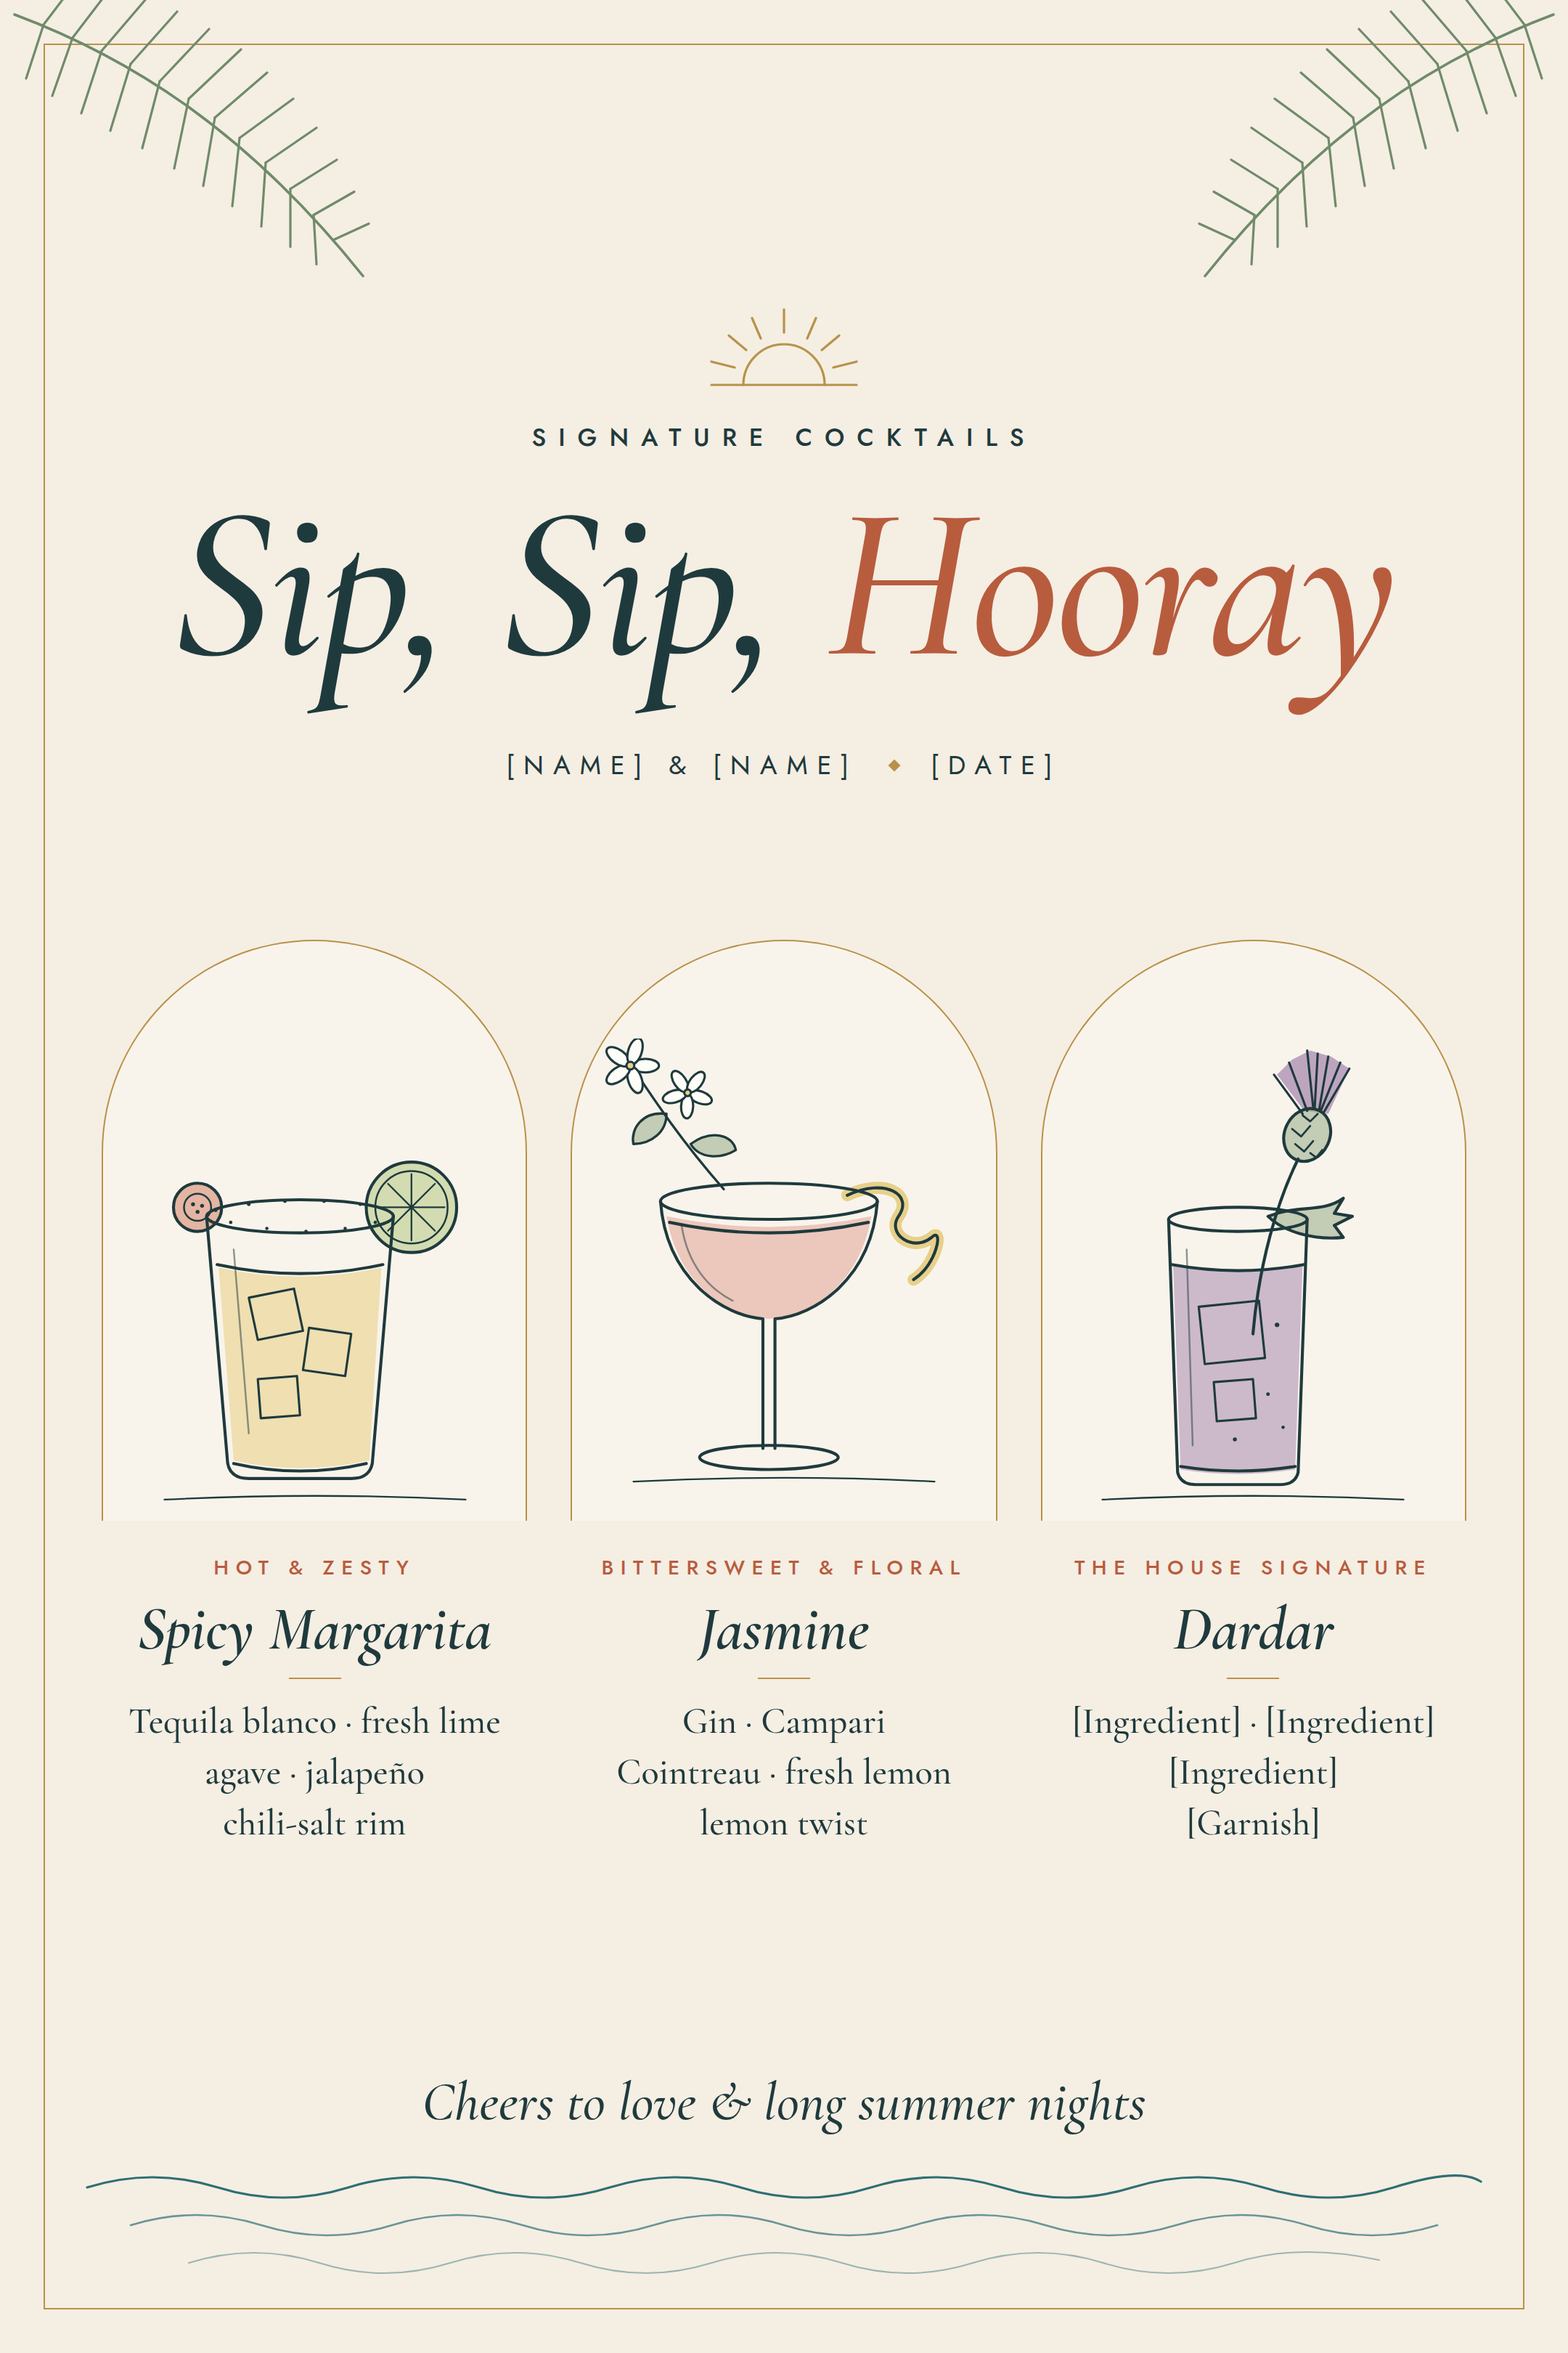
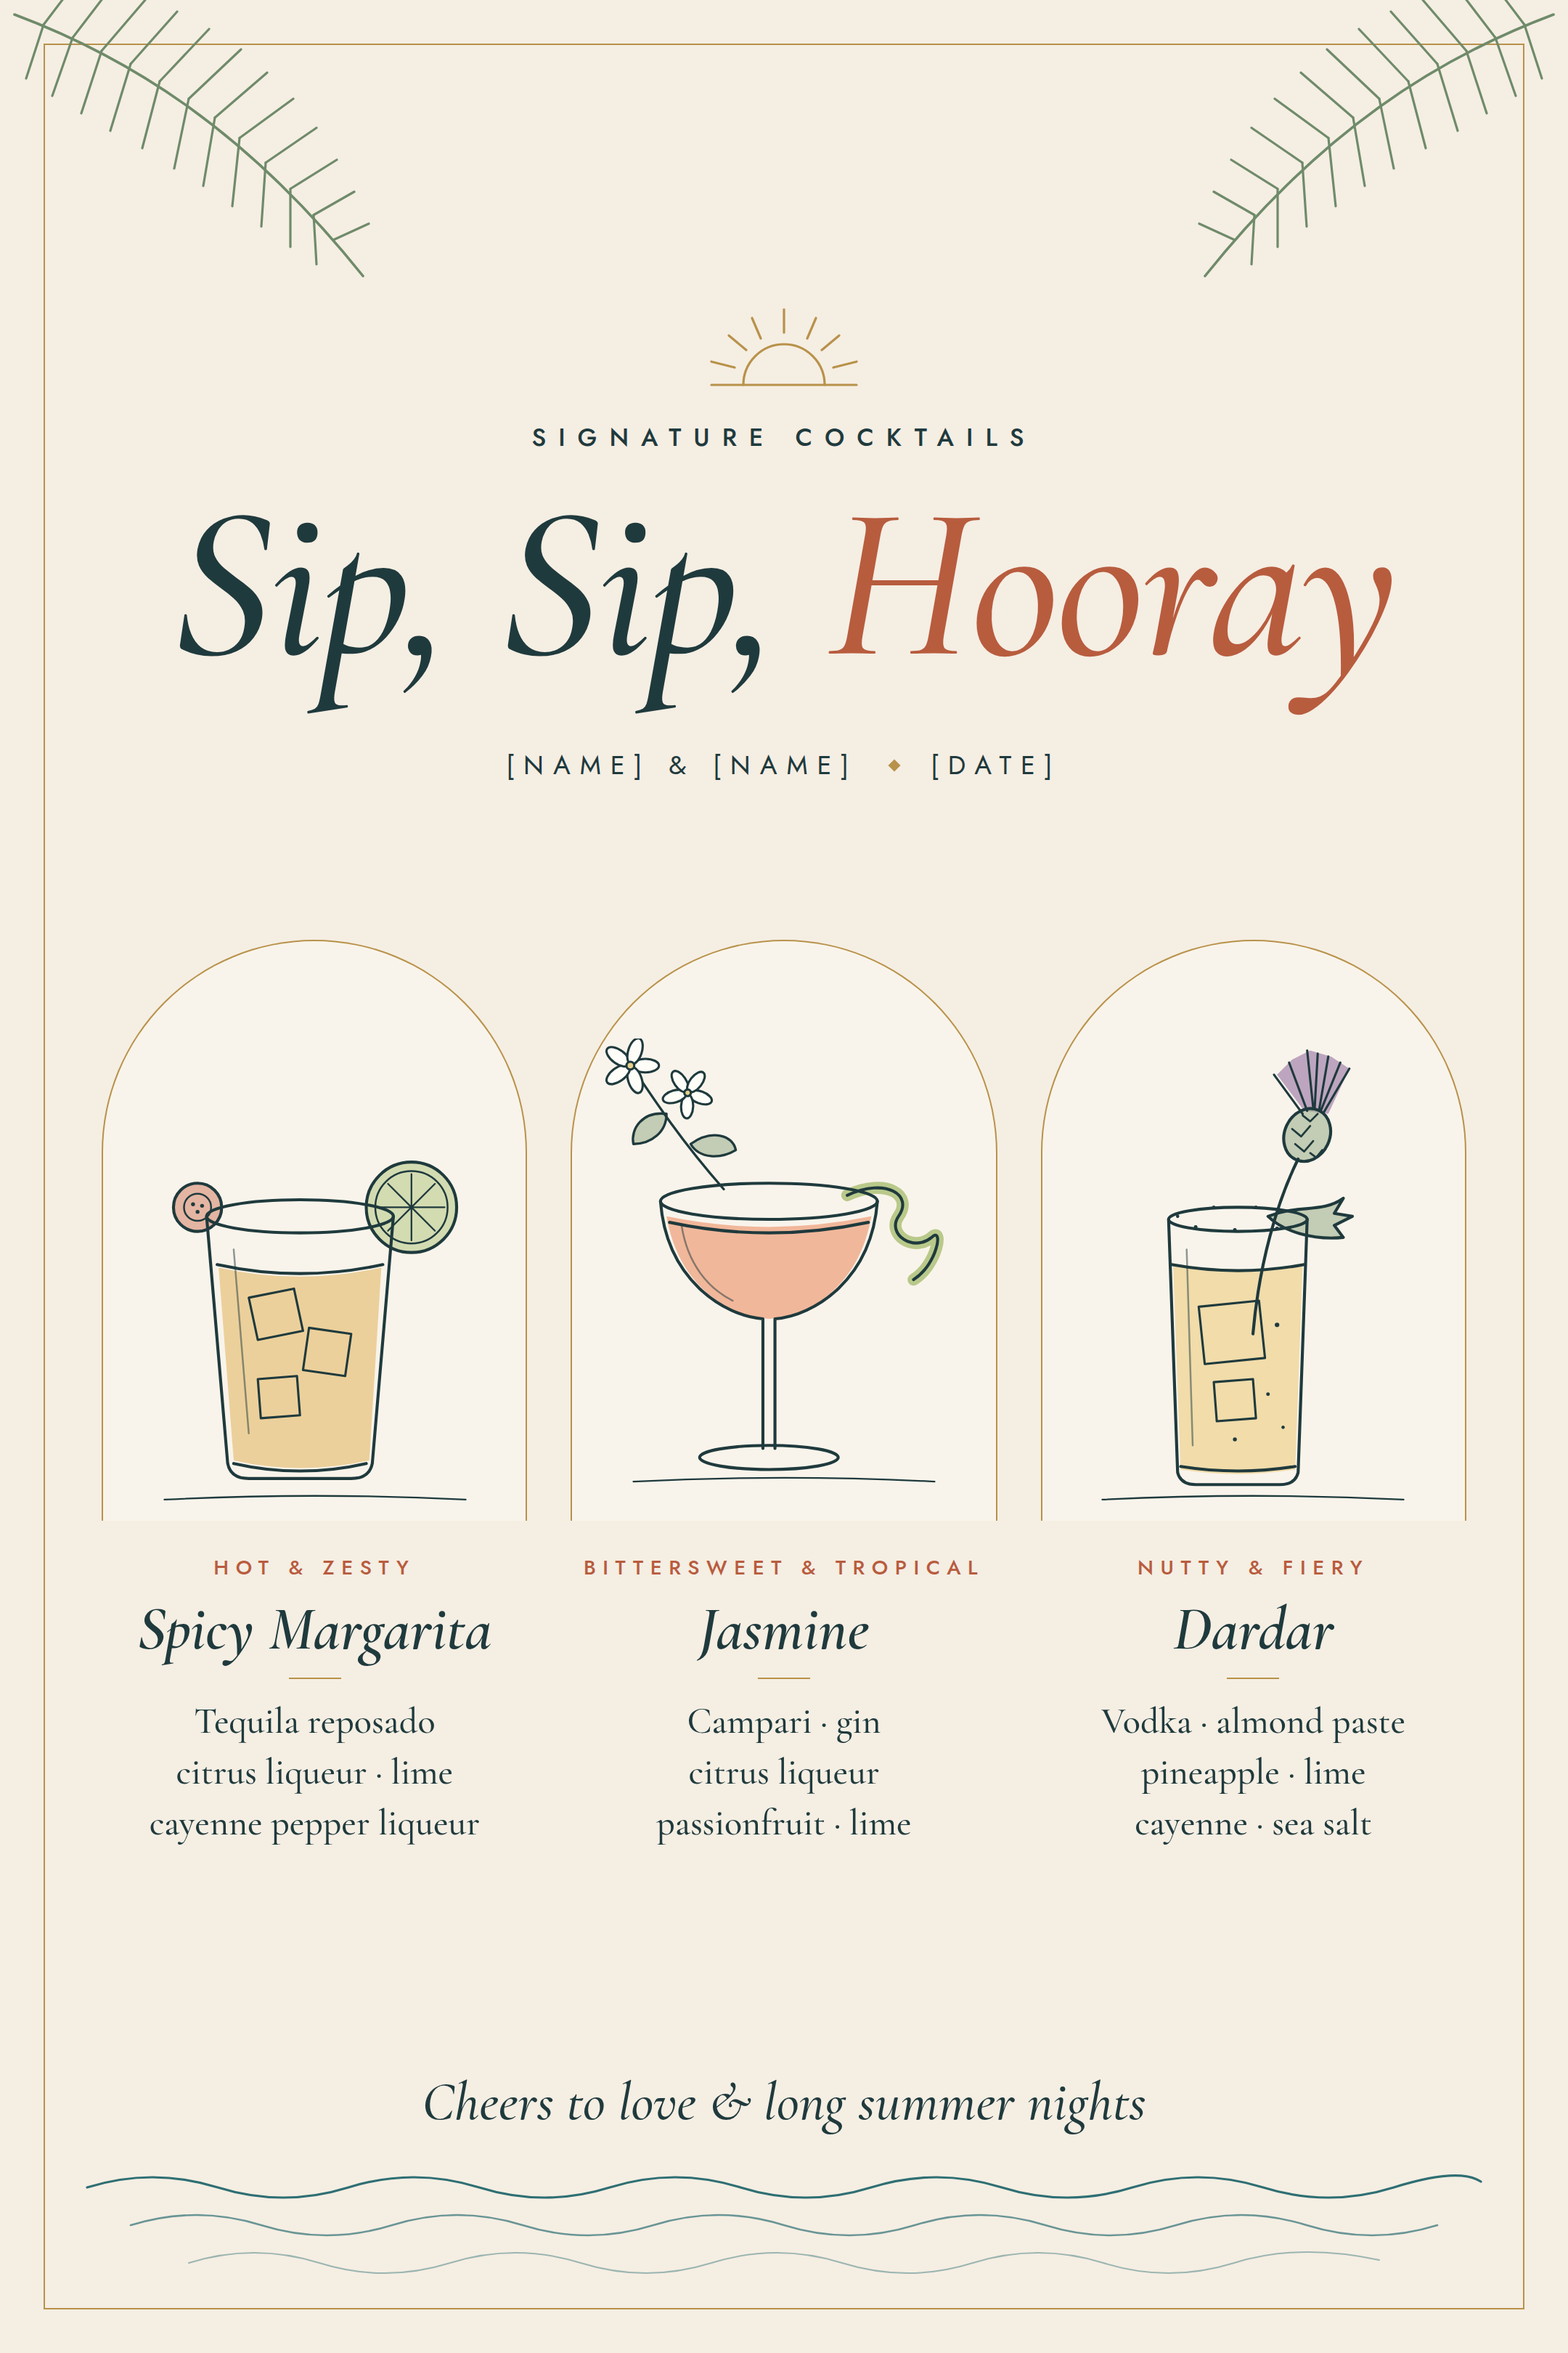
Poster: use real ingredients from the bar's cocktail menu
Claude-Session: https://claude.ai/code/session_01HYkb5V22HkBGdt4293FLKk

diff --git a/posters/cocktails/poster.html b/posters/cocktails/poster.html
@@ -44,7 +44,7 @@ a{color:#B85C3E}a:hover{color:#8F4228}
 <div style="display: flex; flex-direction: column; align-items: center; gap: 12px; text-align: center">
 <div style="width: 100%; height: 400px; box-sizing: border-box; border: 1.5px solid #B8924A; border-bottom: none; border-radius: 150px 150px 0 0; display: flex; align-items: flex-end; justify-content: center; background: #F9F4EB">
 <svg width="270" height="332" viewBox="0 0 260 320" fill="none" stroke="#1F3A3D" stroke-width="2" stroke-linecap="round" stroke-linejoin="round" aria-hidden="true">
-<path d="M66 152 Q120 164 174 152 L166 280 Q120 290 76 280 Z" fill="#E7D08A" fill-opacity="0.6" stroke="none"></path>
+<path d="M66 152 Q120 164 174 152 L166 280 Q120 290 76 280 Z" fill="#E2B866" fill-opacity="0.6" stroke="none"></path>
 <circle cx="194" cy="112" r="30" fill="#B9C98A" fill-opacity="0.6" stroke="none"></circle>
 <circle cx="52" cy="112" r="16" fill="#C9684A" fill-opacity="0.45" stroke="none"></circle>
 <ellipse cx="120" cy="118" rx="62" ry="11"></ellipse>
@@ -55,9 +55,6 @@ a{color:#B85C3E}a:hover{color:#8F4228}
 <path d="M126 192 L154 196 L150 224 L122 220 Z" stroke-width="1.5"></path>
 <path d="M92 226 L118 224 L120 250 L94 252 Z" stroke-width="1.5"></path>
 <path d="M76 140 L86 262" stroke-width="1.2" opacity="0.5"></path>
-<g fill="#1F3A3D" stroke="none">
-<circle cx="64" cy="114" r="1.2"></circle><circle cx="74" cy="122" r="1.1"></circle><circle cx="86" cy="110" r="1.2"></circle><circle cx="98" cy="126" r="1.1"></circle><circle cx="110" cy="108" r="1.2"></circle><circle cx="124" cy="128" r="1.1"></circle><circle cx="136" cy="108" r="1.2"></circle><circle cx="150" cy="126" r="1.1"></circle><circle cx="160" cy="110" r="1.2"></circle><circle cx="170" cy="122" r="1.1"></circle>
-</g>
 <circle cx="194" cy="112" r="30"></circle>
 <circle cx="194" cy="112" r="24" stroke-width="1.2"></circle>
 <path d="M194 112 L216 112 M194 112 L209.6 96.4 M194 112 L194 90 M194 112 L178.4 96.4 M194 112 L172 112 M194 112 L178.4 127.6 M194 112 L194 134 M194 112 L209.6 127.6" stroke-width="1.1"></path>
@@ -70,14 +67,14 @@ a{color:#B85C3E}a:hover{color:#8F4228}
 <div style="font-size: 14px; font-weight: 500; letter-spacing: 0.34em; text-transform: uppercase; color: #B85C3E; margin-top: 10px">Hot &amp; Zesty</div>
 <h2 style="margin: 0; font-family: 'Cormorant Garamond', Georgia, serif; font-style: italic; font-size: 42px; font-weight: 600; line-height: 1; white-space: nowrap; color: #1F3A3D">Spicy Margarita</h2>
 <div style="width: 36px; height: 1px; background: #B8924A"></div>
-<p style="margin: 0; font-family: 'Cormorant Garamond', Georgia, serif; font-size: 25px; font-weight: 500; line-height: 1.4; color: #1F3A3D">Tequila blanco · fresh lime<br>agave · jalapeño<br>chili-salt rim</p>
+<p style="margin: 0; font-family: 'Cormorant Garamond', Georgia, serif; font-size: 25px; font-weight: 500; line-height: 1.4; color: #1F3A3D">Tequila reposado<br>citrus liqueur · lime<br>cayenne pepper liqueur</p>
 </div>
 
 <div style="display: flex; flex-direction: column; align-items: center; gap: 12px; text-align: center">
 <div style="width: 100%; height: 400px; box-sizing: border-box; border: 1.5px solid #B8924A; border-bottom: none; border-radius: 150px 150px 0 0; display: flex; align-items: flex-end; justify-content: center; background: #F9F4EB">
 <svg width="270" height="332" viewBox="0 0 260 320" fill="none" stroke="#1F3A3D" stroke-width="2" stroke-linecap="round" stroke-linejoin="round" aria-hidden="true">
-<path d="M52 118 C 60 164, 92 184, 120 186 C 148 184, 180 164, 188 118 Q120 132 52 118 Z" fill="#E7B3A8" fill-opacity="0.7" stroke="none"></path>
-<path d="M172 104 C 198 92, 216 104, 206 118 C 198 130, 216 142, 228 132 C 236 124, 232 150, 216 160" stroke="#E7D08A" stroke-width="8"></path>
+<path d="M52 118 C 60 164, 92 184, 120 186 C 148 184, 180 164, 188 118 Q120 132 52 118 Z" fill="#EE9C78" fill-opacity="0.7" stroke="none"></path>
+<path d="M172 104 C 198 92, 216 104, 206 118 C 198 130, 216 142, 228 132 C 236 124, 232 150, 216 160" stroke="#B9C98A" stroke-width="8"></path>
 <path d="M52 50 C 36 48, 28 60, 30 70 C 42 70, 52 62, 52 50 Z M68 70 C 82 60, 96 64, 98 74 C 88 80, 74 80, 68 70 Z" fill="#9FB08F" fill-opacity="0.6" stroke="none"></path>
 <ellipse cx="120" cy="108" rx="72" ry="12"></ellipse>
 <path d="M48 108 C 52 160, 90 184, 116 186 L116 272"></path>
@@ -108,20 +105,21 @@ a{color:#B85C3E}a:hover{color:#8F4228}
 <path d="M30 294 Q130 289 230 294" stroke-width="1.1"></path>
 </svg>
 </div>
-<div style="font-size: 14px; font-weight: 500; letter-spacing: 0.34em; text-transform: uppercase; color: #B85C3E; margin-top: 10px">Bittersweet &amp; Floral</div>
+<div style="font-size: 14px; font-weight: 500; letter-spacing: 0.34em; text-transform: uppercase; color: #B85C3E; margin-top: 10px">Bittersweet &amp; Tropical</div>
 <h2 style="margin: 0; font-family: 'Cormorant Garamond', Georgia, serif; font-style: italic; font-size: 42px; font-weight: 600; line-height: 1; white-space: nowrap; color: #1F3A3D">Jasmine</h2>
 <div style="width: 36px; height: 1px; background: #B8924A"></div>
-<p style="margin: 0; font-family: 'Cormorant Garamond', Georgia, serif; font-size: 25px; font-weight: 500; line-height: 1.4; color: #1F3A3D">Gin · Campari<br>Cointreau · fresh lemon<br>lemon twist</p>
+<p style="margin: 0; font-family: 'Cormorant Garamond', Georgia, serif; font-size: 25px; font-weight: 500; line-height: 1.4; color: #1F3A3D">Campari · gin<br>citrus liqueur<br>passionfruit · lime</p>
 </div>
 
 <div style="display: flex; flex-direction: column; align-items: center; gap: 12px; text-align: center">
 <div style="width: 100%; height: 400px; box-sizing: border-box; border: 1.5px solid #B8924A; border-bottom: none; border-radius: 150px 150px 0 0; display: flex; align-items: flex-end; justify-content: center; background: #F9F4EB">
 <svg width="270" height="332" viewBox="0 0 260 320" fill="none" stroke="#1F3A3D" stroke-width="2" stroke-linecap="round" stroke-linejoin="round" aria-hidden="true">
-<path d="M77 150 Q120 158 163 150 L158 286 Q120 292 82 286 Z" fill="#A88BB0" fill-opacity="0.55" stroke="none"></path>
+<path d="M77 150 Q120 158 163 150 L158 286 Q120 292 82 286 Z" fill="#EBCB7E" fill-opacity="0.6" stroke="none"></path>
 <path d="M146 24 L156 14 L168 8 L182 12 L194 20 L180 50 L164 48 Z" fill="#A88BB0" fill-opacity="0.75" stroke="none"></path>
 <ellipse cx="166" cy="64" rx="15" ry="18" transform="rotate(25 166 64)" fill="#9FB08F" fill-opacity="0.6" stroke="none"></ellipse>
 <path d="M140 118 C 160 110, 176 116, 190 106 L184 116 L196 118 L184 124 L190 132 C 170 134, 150 128, 140 118 Z" fill="#9FB08F" fill-opacity="0.6" stroke="none"></path>
 <ellipse cx="120" cy="120" rx="46" ry="8"></ellipse>
+<g fill="#1F3A3D" stroke="none"><circle cx="80" cy="118" r="1.1"></circle><circle cx="92" cy="125" r="1.2"></circle><circle cx="104" cy="112" r="1.1"></circle><circle cx="118" cy="127" r="1.2"></circle><circle cx="132" cy="112" r="1.1"></circle><circle cx="146" cy="126" r="1.2"></circle><circle cx="158" cy="115" r="1.1"></circle></g>
 <path d="M74 120 L80 288 Q82 296 92 296 L148 296 Q158 296 160 288 L166 120"></path>
 <path d="M82 284 Q120 290 158 284"></path>
 <path d="M76 150 Q120 158 164 150"></path>
@@ -137,10 +135,10 @@ a{color:#B85C3E}a:hover{color:#8F4228}
 <path d="M30 306 Q130 301 230 306" stroke-width="1.1"></path>
 </svg>
 </div>
-<div style="font-size: 14px; font-weight: 500; letter-spacing: 0.34em; text-transform: uppercase; color: #B85C3E; margin-top: 10px">The House Signature</div>
+<div style="font-size: 14px; font-weight: 500; letter-spacing: 0.34em; text-transform: uppercase; color: #B85C3E; margin-top: 10px">Nutty &amp; Fiery</div>
 <h2 style="margin: 0; font-family: 'Cormorant Garamond', Georgia, serif; font-style: italic; font-size: 42px; font-weight: 600; line-height: 1; white-space: nowrap; color: #1F3A3D">Dardar</h2>
 <div style="width: 36px; height: 1px; background: #B8924A"></div>
-<p style="margin: 0; font-family: 'Cormorant Garamond', Georgia, serif; font-size: 25px; font-weight: 500; line-height: 1.4; color: #1F3A3D">[Ingredient] · [Ingredient]<br>[Ingredient]<br>[Garnish]</p>
+<p style="margin: 0; font-family: 'Cormorant Garamond', Georgia, serif; font-size: 25px; font-weight: 500; line-height: 1.4; color: #1F3A3D">Vodka · almond paste<br>pineapple · lime<br>cayenne · sea salt</p>
 </div>
 
 </div>
